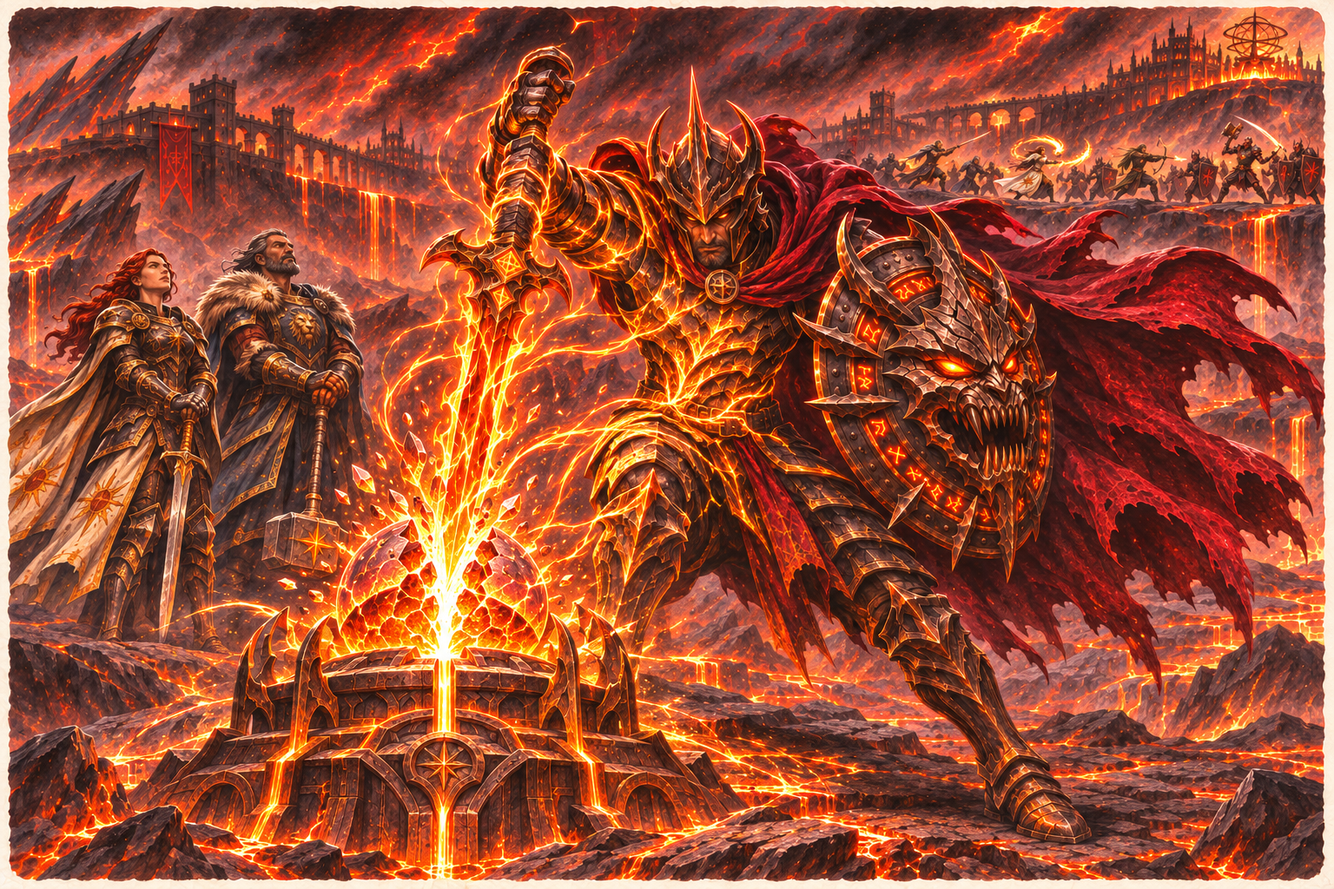
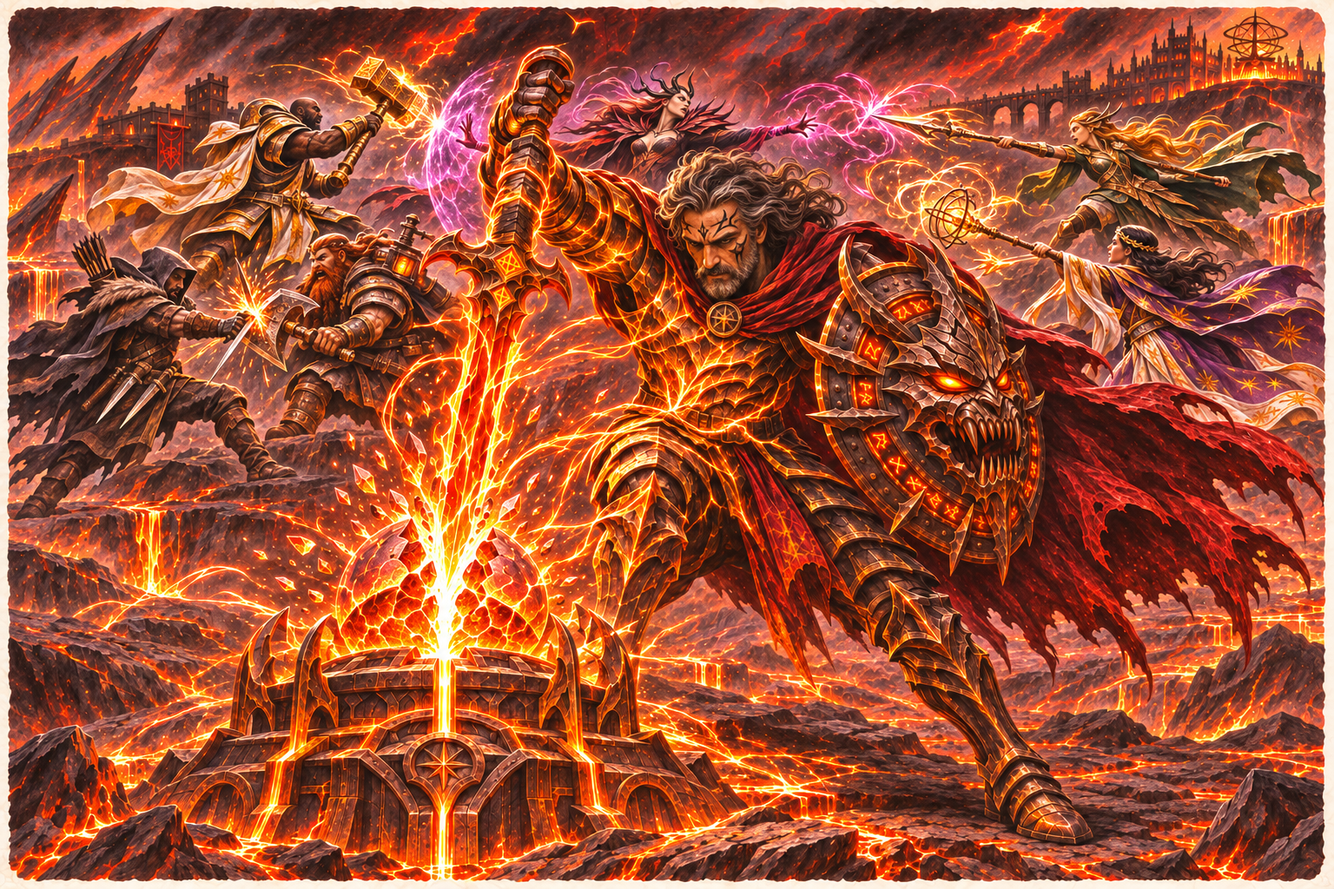
Move Ulrich pages under tables/wildemount and refine illustrations

diff --git a/tables/wildemount/background-oculto-ulrich-kessler/index.html b/tables/wildemount/background-oculto-ulrich-kessler/index.html
@@ -1,0 +1,34 @@
+<!doctype html><html lang="pt-BR"><head><meta charset="utf-8"><meta name="viewport" content="width=device-width,initial-scale=1"><meta name="robots" content="noindex,nofollow"><title>Ulrich Kessler — Background fechado</title><meta name="description" content="A história oculta de Ulrich Kessler. Material reservado ao mestre."><style>
+:root{color-scheme:dark;--paper:#171c22;--ink:#e8e0d2;--muted:#b1ac9f;--gold:#d2ad78;--line:#424347}
+*{box-sizing:border-box}html{scroll-behavior:smooth;scroll-padding-top:2rem}
+body{margin:0;background:var(--paper);color:var(--ink);font:1.16rem/1.85 Georgia,'Times New Roman',serif}
+body{isolation:isolate}
+body::before{content:"";position:fixed;inset:0;z-index:-1;pointer-events:none;background:url("/gamedev/docs/wildemounts-backgrounds-and-characters-conections/background-fechado/avernus-fundo.png") center/cover no-repeat}
+header,main{background:rgba(13,21,29,.84)}
+header{border-radius:18px 18px 0 0}
+main{border-radius:0 0 18px 18px}
+header{margin-top:clamp(1rem,4vw,4rem)}
+main{margin-bottom:clamp(1rem,4vw,4rem)}
+a{color:inherit;text-underline-offset:5px}a:hover{color:var(--gold)}a:focus-visible{outline:3px solid var(--gold);outline-offset:5px}
+.skip{position:absolute;top:-100px;left:1rem;background:var(--paper);padding:.5rem;z-index:2}.skip:focus{top:1rem}
+header{max-width:1120px;margin:clamp(1rem,4vw,4rem) auto 0;padding:4rem 5vw 2.5rem;display:grid;grid-template-columns:1fr 1fr;gap:5vw;align-items:center}
+.eyebrow{font:small-caps 1rem/1.4 Georgia,serif;letter-spacing:.16em;color:var(--gold)}
+h1{font-size:clamp(3rem,6.5vw,6rem);line-height:1.05;font-weight:400;letter-spacing:-.035em;margin:1.3rem 0}
+.subtitle{font-style:italic;color:var(--muted);margin:0}
+nav{margin-top:2rem;display:flex;flex-wrap:wrap;gap:.65rem 1.4rem;font-size:.9rem;line-height:1.7}
+.portrait{margin:0}.portrait img{display:block;width:100%;height:auto;border-radius:12px;box-shadow:0 16px 42px #00000055}
+figcaption{font-size:.88rem;line-height:1.55;color:var(--muted);padding:.75rem 0 0;font-style:italic}
+main{max-width:1120px;margin:auto;padding:0 5vw 3rem}
+section{padding:3rem 0 1rem;border-top:1px solid var(--line);margin-top:0}
+h2{max-width:720px;margin:0 auto 1.7rem;font-weight:400;font-size:clamp(1.8rem,3.3vw,2.7rem);line-height:1.2}
+p{max-width:720px;margin:0 auto 1.4rem}
+section figure{margin:2.6rem 0 3rem}section figure img{width:100%;height:auto;display:block;border-radius:12px;box-shadow:0 12px 36px #00000033}
+section figure figcaption{text-align:center}
+.closing{margin:1rem auto 2rem;max-width:720px}.closing p:last-child{border-left:2px solid var(--gold);padding-left:1.4rem}
+footer{max-width:720px;margin:0 auto;padding:2rem 0;border-top:1px solid var(--line);display:flex;gap:2rem;flex-wrap:wrap;font-size:.9rem}
+@media(max-width:650px){body{font-size:1.05rem;line-height:1.8}header{grid-template-columns:1fr;padding-top:2rem;gap:2rem}header .portrait{max-width:420px;margin:auto}nav{margin-top:1.4rem}section{padding-top:2rem}}
+@media(prefers-reduced-motion:reduce){html{scroll-behavior:auto}}
+@media(max-width:650px){header{margin-top:0}main{margin-bottom:0}body::before{background-position:62% center}}
+@media print{body::before{display:none}header,main{margin-top:0;margin-bottom:0;background:white;box-shadow:none}}
+@media print{header{padding:0;gap:1cm}body{font-size:10pt;line-height:1.55;background:white;color:#292620;--ink:#292620;--muted:#625c52;--gold:#755332;--line:#cfc1a9;color-scheme:light}nav,.skip,footer{display:none}main{padding:0}section{margin-top:1cm}figure{break-inside:avoid}h2{break-after:avoid}a{text-decoration:none}.portrait img{box-shadow:none}section figure img{max-height:15cm;object-fit:contain}}
+</style></head><body><a class="skip" href="#historia">Ir para a história</a><header id="inicio"><div><div class="eyebrow">Wildemount</div><h1>Ulrich<br>Kessler</h1><p class="subtitle">Background fechado · Reservado ao mestre</p><nav aria-label="Capítulos"><a href="#culto">Do exílio ao culto</a><a href="#fissura">A Batalha da Fissura</a><a href="#bastiao">Cinco anos sob custódia</a><a href="#retorno">Porto Damali</a></nav></div><figure class="portrait"><a href="/gamedev/docs/wildemounts-backgrounds-and-characters-conections/background-fechado/ulrich-campeao-de-asmodeus-avernus.png" aria-label="Ampliar imagem — Ulrich com armadura infernal, espada em chamas e escudo em Avernus."><img src="/gamedev/docs/wildemounts-backgrounds-and-characters-conections/background-fechado/ulrich-campeao-de-asmodeus-avernus.png" alt="Ulrich com armadura infernal, espada em chamas e escudo em Avernus." width="1024" height="1536" fetchpriority="high"></a><figcaption>Ulrich, campeão de Asmodeus, antes da queda da Âncora da Vontade.</figcaption></figure></header><main id="historia"><section id="culto"><h2>Do exílio ao culto</h2><p>Quando Ulrich fala de Zadash, conta até a parte que mais lhe custa. Diz que era devoto de Erathis, que serviu à Coroa e que mandou executar quatro homens que recebera ordem de soltar. Faz questão de dizer a verdade sempre que consegue. Quando chega aos anos de escolta, escolhe as palavras com mais cuidado. Há nomes que evita pronunciar. Ninguém na Costa suspeitaria de alguns dos lugares por onde passou. Para conhecer Ulrich por inteiro, é preciso seguir com ele a partir do ponto em que costuma abreviar a história.</p><p>Por alguns anos, Ulrich ganhou a vida como mercenário na Costa da Menagerie. Escoltava cargas de um porto a outro e aceitava o próximo serviço quando o dinheiro começava a acabar. Certos contratantes pagavam bem e sempre voltavam com outra proposta. Ulrich só descobriu mais tarde que serviam ao culto de Asmodeus. A essa altura, já lhe confiavam rotas inteiras e punham homens sob seu comando. Aos poucos, soube também o que esperavam construir. Acreditavam, como ele, que a paz só duraria quando uma autoridade pudesse impor a mesma ordem em toda parte. Ali encontrou o propósito que lhe faltava desde a fuga. Entregou-se à causa de livre vontade, e Asmodeus lhe deu poder para levá-la adiante.</p><figure class=""><a href="/gamedev/docs/wildemounts-backgrounds-and-characters-conections/background-fechado/ulrich-primeiro-contrato-do-culto.png" aria-label="Ampliar imagem — Ulrich recebe pagamento e instruções num armazém da Costa."><img src="/gamedev/docs/wildemounts-backgrounds-and-characters-conections/background-fechado/ulrich-primeiro-contrato-do-culto.png" alt="Ulrich recebe pagamento e instruções num armazém da Costa." width="1536" height="1024" loading="lazy"></a><figcaption>Os contratos se repetiram, e Ulrich passou a conhecer a causa que os financiava.</figcaption></figure><p>Passaram-se anos. Ulrich aprendeu a mover cargas e homens sem revelar o destino de nenhum dos dois, coordenou agentes na Costa e comandou missões fora do Plano Material. Para manter as rotas do culto, mandou incendiar casas de quem se recusava a ceder passagem, tomou reféns e fez desaparecer testemunhas. Quando Asmodeus escolheu os sete campeões que sustentariam o ritual para romper o Portão Divino, Ulrich estava entre eles. Antes de partir para Avernus, deixou instruções a um agente em Wildemount. Se a comunicação com os superiores fosse cortada, as peças seguiriam separadas por uma rota de reserva e só seriam reunidas no destino.</p></section><section id="fissura"><h2>A Batalha da Fissura</h2><p>Antes da batalha, um <em>Desejo</em> foi pronunciado longe de Ulrich. Ele jamais ouviu as palavras. Sabe apenas que, de vez em quando, uma pergunta lhe ocorria com uma clareza que o perturbava. Quando a paz chegasse, o que aconteceria com quem a recusasse? Durante anos, a resposta lhe parecera simples. Agora havia momentos em que ele chegava a pensar nas pessoas que teriam de viver sob aquela ordem. Ainda assim, seguiu para Avernus.</p><p>Quando os exércitos se encontraram junto à fissura, a batalha se abriu em duas frentes. Numa delas, a coalizão enfrentava Tharizdun. Na outra, as legiões de Asmodeus defendiam as estruturas que seus engenheiros haviam erguido ao redor do Portão. A Âncora da Subjugação impedia que a fissura se recompusesse. A da Convergência acumulava a energia necessária para alargá-la. A terceira, a Âncora da Vontade, dependia dos campeões reunidos ao redor de seu núcleo. Seus juramentos só sustentariam o ritual enquanto todos quisessem que o Portão caísse.</p><figure class=""><a href="/gamedev/docs/wildemounts-backgrounds-and-characters-conections/background-fechado/ulrich-sete-campeoes-da-ancora.png" aria-label="Ampliar imagem — Sete campeões sustentam o núcleo da Âncora da Vontade em Avernus."><img src="/gamedev/docs/wildemounts-backgrounds-and-characters-conections/background-fechado/ulrich-sete-campeoes-da-ancora.png" alt="Sete campeões sustentam o núcleo da Âncora da Vontade em Avernus." width="1536" height="1024" loading="lazy"></a><figcaption>Sete vontades reunidas para derrubar o Portão Divino.</figcaption></figure><p>Quando o fluxo passou pelas três âncoras, Ulrich sentiu por um instante o que os outros campeões esperavam da vitória. Um já pensava nas cidades que tomaria. Outro esperava a queda da barreira para acertar contas com um aliado. Então Ulrich teve a visão. Viu exércitos atravessarem o Portão, viu deuses disputando cidades e viu Asmodeus exigir obediência dos sobreviventes. Lembrou-se do pátio da guarnição em Zadash e da certeza com que dera a ordem de execução. Ao fim da visão e de volta ao círculo, compreendeu o que ainda podia escolher.</p><p>Ulrich recuou. Do outro lado do núcleo, outros dois campeões baixaram as armas. O fluxo perdeu força. Os que continuavam leais tentaram sustentar o ritual, e a guarda se dividiu quando os campeões voltaram as armas uns contra os outros. Ulrich atravessou o círculo e golpeou o núcleo enquanto ainda estava ligado a ele. A energia acumulada percorreu esse vínculo e o atingiu antes que pudesse se afastar. Com a terceira âncora destruída, a coalizão tomou as posições infernais e impediu que o ritual fosse retomado. Na outra frente, Tharizdun foi derrotado. O Portão resistiu, e a fissura ficou aberta.</p><figure class=""><a href="/gamedev/docs/wildemounts-backgrounds-and-characters-conections/background-fechado/ulrich-destruicao-do-nucleo.png" aria-label="Ampliar imagem — Ulrich golpeia o núcleo da âncora e é atravessado pela descarga."><img src="/gamedev/docs/wildemounts-backgrounds-and-characters-conections/background-fechado/ulrich-destruicao-do-nucleo.png" alt="Ulrich golpeia o núcleo da âncora e é atravessado pela descarga." width="1536" height="1024" loading="lazy"></a><figcaption>Ulrich voltou a espada contra a estrutura que havia jurado defender.</figcaption></figure><p>Encontraram Ulrich entre os destroços. Todo o poder que Asmodeus lhe dera havia desaparecido. Havia nomes que já não conseguia lembrar e rostos que via pela metade. Pela força da descarga, também sua vida deveria ter acabado ali. Ainda assim, quando os guardas se inclinaram sobre ele, sentiram sua respiração. Às vezes, Ulrich se pergunta se algum deus teve parte nisso. Em outras noites, a pergunta que lhe tira o sono é o que fazer com os anos que lhe restam.</p></section><section id="bastiao"><h2>Cinco anos sob custódia</h2><p>A marechal Seressa Vhal tinha enterrado gente que Ulrich ajudara a matar. Sabia também que ele havia rompido o núcleo quando ainda podia defender a âncora. A ruptura lhe deu motivo para considerar que o antigo campeão fosse capaz de mudar. O que ele sabia sobre os agentes de Asmodeus podia ajudar a proteger a fissura, e mantê-lo sob guarda permitiria conferir o que contasse e observar se ainda obedecia ao antigo patrono. Seressa assumiu diante da Vigília a responsabilidade de mantê-lo vivo sob custódia.</p><figure class=""><a href="/gamedev/docs/wildemounts-backgrounds-and-characters-conections/background-fechado/ulrich-seressa-apos-a-batalha.png" aria-label="Ampliar imagem — Seressa encara Ulrich ferido na enfermaria após a batalha."><img src="/gamedev/docs/wildemounts-backgrounds-and-characters-conections/background-fechado/ulrich-seressa-apos-a-batalha.png" alt="Seressa encara Ulrich ferido na enfermaria após a batalha." width="1536" height="1024" loading="lazy"></a><figcaption>Seressa assumiu a responsabilidade de mantê-lo vivo sob custódia.</figcaption></figure><p>Ulrich passou cinco anos no Bastião. Trabalhou na enfermaria, na cozinha e na horta, prestou depoimentos e conversou com Zereth sobre as escolhas que fizera antes e depois de conhecer Asmodeus. Em um dos depoimentos, contou que havia mandado levar um prisioneiro para uma vala e indicou onde ficava. A patrulha enviada ao local encontrou os corpos de dois combatentes desaparecidos. As famílias puderam enfim saber o que lhes acontecera, e Seressa viu que Ulrich estava disposto a contar até o que o comprometia. Aos poucos, Seressa pôde confiar em informações que Ulrich lhe entregava e que a Vigília conseguia verificar.</p><figure class=""><a href="/gamedev/docs/wildemounts-backgrounds-and-characters-conections/background-fechado/ulrich-depoimento-no-bastiao.png" aria-label="Ampliar imagem — Ulrich desenha um mapa para Seressa e Zereth no Bastião."><img src="/gamedev/docs/wildemounts-backgrounds-and-characters-conections/background-fechado/ulrich-depoimento-no-bastiao.png" alt="Ulrich desenha um mapa para Seressa e Zereth no Bastião." width="1536" height="1024" loading="lazy"></a><figcaption>Sob a guarda da Vigília, Ulrich contou o que ainda conseguia lembrar.</figcaption></figure><p>Quando voltou sob escolta ao local do ritual, Ulrich reconheceu entre os destroços o ponto onde estivera de guarda. Lembrou-se do orgulho com que defendera a âncora e sentiu nojo de si mesmo. Durante anos, Asmodeus alimentara suas certezas até que duvidar parecesse uma forma de deslealdade. Ulrich ficara tão cego que já mal conseguia imaginar a vida de quem sofria por suas ordens. Diante dos destroços, ainda se espantava por ter voltado a enxergar a tempo de agir. Teria sido obra de algum deus? Teria sido o destino? Ulrich guardava consigo a gratidão por aquele instante de clareza.</p><p>Ao longo daqueles anos, Ulrich voltou muitas vezes ao instante em que escolheu romper a âncora. Ao ver com clareza o que a queda do Portão custaria a quem teria de viver sob aquela ordem, conseguiu escolher o que fazer. Alguém havia tido de esperar para ver o que ele faria com a liberdade de escolher. Ele começou a se perguntar se teria a mesma paciência com alguém que já tivesse causado sofrimento. Talvez sua redenção pudesse começar ali, na liberdade de escolher o que faria dali em diante e na disposição de reparar o que ainda pudesse.</p></section><section id="retorno"><h2>O que o espera em Porto Damali</h2><p>Nemeia Sar reuniu registros de remessas despachadas depois da batalha. As caixas vinham declaradas como ferragens, mas as marcas correspondiam a peças que, reunidas, podiam conduzir energia para um ritual. Ulrich reconheceu a rota de reserva e o procedimento que ele próprio deixara em vigor. Ilyan Vey vinha observando pulsos na fissura semelhantes aos registrados durante os preparativos das âncoras. Seressa chamou Ulrich à sala de mapas. Precisava descobrir se alguém já estava montando ou testando um condutor. Como ele ainda sabia reconhecer as peças e o método de montagem, mesmo sem lembrar o nome do agente, ela lhe propôs que seguisse a carga em Porto Damali e prestasse contas à Vigília do que encontrasse.</p><p>Ulrich pediu um momento antes de responder. A rota que Seressa queria seguir ainda funcionava por causa de uma ordem sua. Aceitar a missão significava voltar à Costa e encarar as consequências dos crimes que cometera em nome de uma ideia equivocada de paz eterna. Viu ali uma oportunidade de proteger outras pessoas e dar a quem quisesse deixar o culto a chance de assumir o que fez. Sentiu uma convicção quase tão forte quanto a que o movera, anos antes, a fazer seu primeiro juramento. Disse a Seressa que iria. A disposição de tentar, mesmo diante de alguém de quem teria motivos para desconfiar, foi o começo do seu caminho de redenção.</p><p>Ao aceitar a missão, Ulrich sentiu um calor leve nas mãos. Em Porto Damali, tornou a senti-lo quando a dor de um carregador ferido cedeu sob seus dedos. Reconheceu algo sagrado naquele toque. Talvez um dia entendesse de onde vinha aquele poder ou por que sobrevivera em Avernus. Por ora, voltar a Wildemount lhe trazia um alívio que jamais imaginara sentir. Quando fugiu de Zadash, cada passo o levava para longe das consequências de uma ordem sua. Agora, a missão de Seressa o trazia de volta a Wildemount, a uma rota que ele mesmo ajudara a manter aberta. Ao pôr os pés no cais, sentiu o peso do que ainda teria de enfrentar. Mesmo assim, deu o primeiro passo.</p><figure class=""><a href="/gamedev/docs/wildemounts-backgrounds-and-characters-conections/background-fechado/ulrich-retorno-a-porto-damali.png" aria-label="Ampliar imagem — Ulrich desembarca em Porto Damali com a carta de Seressa."><img src="/gamedev/docs/wildemounts-backgrounds-and-characters-conections/background-fechado/ulrich-retorno-a-porto-damali.png" alt="Ulrich desembarca em Porto Damali com a carta de Seressa." width="1536" height="1024" loading="lazy"></a><figcaption>De volta a Wildemount, Ulrich deu o primeiro passo.</figcaption></figure></section><footer><a href="/gamedev/docs/wildemounts-backgrounds-and-characters-conections/background-fechado/ulrich-kessler-background-fechado.md">Texto em Markdown</a><a href="#inicio">Voltar ao início</a></footer></main></body></html>

diff --git a/tables/wildemount/ulrich-kessler/index.html b/tables/wildemount/ulrich-kessler/index.html
@@ -1,0 +1,56 @@
+<!doctype html>
+<html lang="pt-BR"><head><meta charset="utf-8"><meta name="viewport" content="width=device-width,initial-scale=1">
+<title>Ulrich Kessler — Background aberto</title><meta name="description" content="A história ilustrada de Ulrich Kessler, de Zadash aos cais de Porto Damali.">
+<style>
+:root{color-scheme:dark;--paper:#171c22;--ink:#e8e0d2;--muted:#b1ac9f;--gold:#d2ad78;--line:#424347}
+*{box-sizing:border-box}html{scroll-behavior:smooth;scroll-padding-top:2rem}
+body{margin:0;background:var(--paper);color:var(--ink);font:1.16rem/1.85 Georgia,'Times New Roman',serif}
+body{isolation:isolate}
+body::before{content:"";position:fixed;inset:0;z-index:-1;pointer-events:none;background:url("/gamedev/docs/wildemounts-backgrounds-and-characters-conections/background-aberto/costa-menagerie-fundo.png") center/cover no-repeat}
+header,main{background:rgba(13,21,29,.84)}
+header{border-radius:18px 18px 0 0}
+main{border-radius:0 0 18px 18px}
+header{margin-top:clamp(1rem,4vw,4rem)}
+main{margin-bottom:clamp(1rem,4vw,4rem)}
+a{color:inherit;text-underline-offset:5px}a:hover{color:var(--gold)}a:focus-visible{outline:3px solid var(--gold);outline-offset:5px}
+.skip{position:absolute;top:-100px;left:1rem;background:var(--paper);padding:.5rem;z-index:2}.skip:focus{top:1rem}
+header{max-width:1120px;margin:clamp(1rem,4vw,4rem) auto 0;padding:4rem 5vw 2.5rem;display:grid;grid-template-columns:1fr 1fr;gap:5vw;align-items:center}
+.eyebrow{font:small-caps 1rem/1.4 Georgia,serif;letter-spacing:.16em;color:var(--gold)}
+h1{font-size:clamp(3rem,6.5vw,6rem);line-height:1.05;font-weight:400;letter-spacing:-.035em;margin:1.3rem 0}
+.subtitle{font-style:italic;color:var(--muted);margin:0}
+nav{margin-top:2rem;display:flex;flex-wrap:wrap;gap:.65rem 1.4rem;font-size:.9rem;line-height:1.7}
+.portrait{margin:0}.portrait img{display:block;width:100%;height:auto;border-radius:12px;box-shadow:0 16px 42px #00000055}
+figcaption{font-size:.88rem;line-height:1.55;color:var(--muted);padding:.75rem 0 0;font-style:italic}
+main{max-width:1120px;margin:auto;padding:0 5vw 3rem}
+section{padding:3rem 0 1rem;border-top:1px solid var(--line);margin-top:0}
+h2{max-width:720px;margin:0 auto 1.7rem;font-weight:400;font-size:clamp(1.8rem,3.3vw,2.7rem);line-height:1.2}
+p{max-width:720px;margin:0 auto 1.4rem}
+section figure{margin:2.6rem 0 3rem}section figure img{width:100%;height:auto;display:block;border-radius:12px;box-shadow:0 12px 36px #00000033}
+section figure figcaption{text-align:center}
+.closing{margin:1rem auto 2rem;max-width:720px}.closing p:last-child{border-left:2px solid var(--gold);padding-left:1.4rem}
+footer{max-width:720px;margin:0 auto;padding:2rem 0;border-top:1px solid var(--line);display:flex;gap:2rem;flex-wrap:wrap;font-size:.9rem}
+@media(max-width:650px){body{font-size:1.05rem;line-height:1.8}header{grid-template-columns:1fr;padding-top:2rem;gap:2rem}header .portrait{max-width:420px;margin:auto}nav{margin-top:1.4rem}section{padding-top:2rem}}
+@media(prefers-reduced-motion:reduce){html{scroll-behavior:auto}}
+@media(max-width:650px){header{margin-top:0}main{margin-bottom:0}body::before{background-position:62% center}}
+@media print{body::before{display:none}header,main{margin-top:0;margin-bottom:0;background:white;box-shadow:none}}
+@media print{header{padding:0;gap:1cm}body{font-size:10pt;line-height:1.55;background:white;color:#292620;--ink:#292620;--muted:#625c52;--gold:#755332;--line:#cfc1a9;color-scheme:light}nav,.skip,footer{display:none}main{padding:0}section{margin-top:1cm}figure{break-inside:avoid}h2{break-after:avoid}a{text-decoration:none}.portrait img{box-shadow:none}section figure img{max-height:15cm;object-fit:contain}}
+</style></head><body>
+<a class="skip" href="#historia">Ir para a história</a>
+<header id="inicio"><div><div class="eyebrow">Wildemount</div><h1>Ulrich<br>Kessler</h1><p class="subtitle">Background aberto · Versão para todos na mesa</p>
+<nav aria-label="Capítulos"><a href="#zadash">Zadash</a><a href="#costa">Os anos na Costa</a><a href="#vigilia">A missão da Vigília</a><a href="#damali">Porto Damali</a></nav></div>
+<figure class="portrait"><a href="/gamedev/docs/wildemounts-backgrounds-and-characters-conections/background-aberto/ulrich-paladino-da-redencao-porto-damali.png" aria-label="Ampliar retrato de Ulrich"><img src="/gamedev/docs/wildemounts-backgrounds-and-characters-conections/background-aberto/ulrich-paladino-da-redencao-porto-damali.png" alt="Ulrich aos cinquenta e cinco anos, com cota de malha, escudo redondo e manto azul nos cais de Porto Damali." width="1024" height="1536" fetchpriority="high"></a><figcaption>Ulrich aos cinquenta e cinco anos, de volta a Porto Damali.</figcaption></figure></header>
+<main id="historia"><section id="zadash"><h2>O juramento e a fuga de Zadash</h2><p>Em Zadash, a mãe de Ulrich consertava arreios para carroceiros e patrulheiros. Nos dias em que as estradas eram seguras, o sino da oficina tocava desde cedo. Quando havia notícia de saques, a rua ficava quieta e sobrava pão nas bancas ao fim da tarde. Foi assim que Ulrich aprendeu a amar a ordem, antes mesmo de saber dizer o que ela era. Tornou-se devoto de Erathis, a Portadora da Lei, e, quando vestiu o uniforme da Crownsguard, jurou servir à Coroa imperial e obedecer às suas leis.</p>
+<figure class=""><a href="/gamedev/docs/wildemounts-backgrounds-and-characters-conections/background-aberto/ulrich-oficina-zadash.png" aria-label="Ampliar imagem — Ulrich menino observa a mãe consertar arreios na oficina em Zadash."><img src="/gamedev/docs/wildemounts-backgrounds-and-characters-conections/background-aberto/ulrich-oficina-zadash.png" alt="Ulrich menino observa a mãe consertar arreios na oficina em Zadash." loading="lazy" width="1536" height="1024"></a><figcaption>Na oficina da mãe, Ulrich aprendeu o valor de uma estrada segura.</figcaption></figure><p>Ganhou renome escoltando viajantes e passou a acreditar que a lei do Império devia chegar a todos os lugares onde suas patrulhas chegavam. Numa guarnição de fronteira, ajudou a capturar um capitão mercenário que vinha cobrando tributo de povoados isolados. Seus homens queimavam celeiros para dar exemplo a quem se recusasse a pagar. A guarda o deteve e o mandou a julgamento, mas parte do bando emboscou a escolta durante a transferência e o libertou. O capitão voltou para se vingar do povoado que havia ajudado a denunciá-lo. Quando Ulrich chegou, reconheceu entre os mortos um carroceiro que costumava levar os arreios à oficina da mãe. Depois daquele dia, passou a medir toda decisão pelo pior que poderia acontecer se esperasse. Aos poucos, a mera possibilidade de um novo ataque lhe pareceu razão suficiente para condenar um homem.</p>
+<p>Anos depois, já no comando de uma patrulha, Ulrich deteve quatro homens depois de um ataque a uma caravana. Tinham sido encontrados perto da estrada com sacos do mesmo fornecedor que abastecia a caravana. Os sacos circulavam por toda a região, e nenhum sobrevivente reconheceu os detidos. Seu superior mandou soltá-los. Ulrich passou a noite convencido de que, se saíssem dali, outros pagariam pela sua demora. Antes do amanhecer, mandou executá-los no pátio da guarnição. Quando a notícia chegou a Zadash, tiraram-lhe a patente e ordenaram que se apresentasse para julgamento. Ulrich fugiu antes da chegada da escolta. Seguiu para Porto Damali, além da jurisdição da Coroa, onde um homem acostumado a viajar armado podia ganhar a vida nos cais.</p>
+<figure class=""><a href="/gamedev/docs/wildemounts-backgrounds-and-characters-conections/background-aberto/ulrich-ordem-dos-prisioneiros-v3.png" aria-label="Ampliar imagem — Sob a lua cheia, Ulrich aponta para quatro prisioneiros cercados por guardas."><img src="/gamedev/docs/wildemounts-backgrounds-and-characters-conections/background-aberto/ulrich-ordem-dos-prisioneiros-v3.png" alt="Sob a lua cheia, Ulrich aponta para quatro prisioneiros cercados por guardas." loading="lazy" width="1536" height="1024"></a><figcaption>Antes do amanhecer, Ulrich deu a ordem que o faria fugir de Zadash.</figcaption></figure><p>Na estrada para o sul, Ulrich alternava o medo de ouvir uma patrulha atrás de si com a raiva dos superiores que o haviam destituído. Repetia mentalmente as razões das execuções, mas, quando parava para descansar, lembrava-se dos quatro homens esperando no pátio. Foi numa dessas paradas que encontrou um carroceiro ferido, caído junto a uma roda partida. Ajoelhou-se ao lado dele e pediu a bênção de Erathis, como fizera tantas vezes em serviço. O calor que conhecia não veio. Tentou outra vez, com a voz mais alta, e sentiu a raiva subir até a garganta. Como a deusa podia deixá-lo desamparado justamente quando alguém precisava dele? O carroceiro segurou seu pulso e pediu que apertasse o pano contra a ferida. Ulrich se calou e obedeceu. Ficou ali até o sangramento diminuir. Quando o homem conseguiu se levantar, ainda não havia bênção em suas mãos. Ulrich o ajudou a subir na carroça e caminhou ao lado do cavalo até encontrar abrigo.</p>
+<figure class=""><a href="/gamedev/docs/wildemounts-backgrounds-and-characters-conections/background-aberto/ulrich-carroceiro-na-estrada-v2.png" aria-label="Ampliar imagem — Na estrada, Ulrich sustenta o braço do carroceiro e encara a própria palma vazia."><img src="/gamedev/docs/wildemounts-backgrounds-and-characters-conections/background-aberto/ulrich-carroceiro-na-estrada-v2.png" alt="Na estrada, Ulrich sustenta o braço do carroceiro e encara a própria palma vazia." loading="lazy" width="1536" height="1024"></a><figcaption>Na noite da fuga, a bênção que conhecia deixou de responder.</figcaption></figure></section><section id="costa"><h2>Os anos na Costa</h2><p>Nos primeiros anos na Costa da Menagerie, Ulrich falava pouco de Zadash. Aceitava serviços curtos, mudava de hospedaria quando o trabalho o levava a outro porto e, antes de aceitar uma escolta, perguntava por onde passaria. As estradas que voltavam ao Império ficavam para outros homens. No começo, ainda chegavam aos cais notícias de que a Crownsguard perguntava por ele. Com o tempo, essas notícias rarearam. Ulrich passou a aceitar viagens mais longas e a voltar aos mesmos armazéns. Logo havia mercadores que o chamavam pelo nome quando precisavam de alguém que conhecesse as rotas da Costa.</p>
+<p>Quando uma remessa trocava de carroça ou de navio, Ulrich conferia o recibo antes de deixá-la seguir. Aprendeu a descobrir quem pagava pelo transporte mesmo quando o nome no papel era o de um intermediário.</p>
+<figure class=""><a href="/gamedev/docs/wildemounts-backgrounds-and-characters-conections/background-aberto/ulrich-escolta-na-costa-v2.png" aria-label="Ampliar imagem — Ulrich e três mercenários escoltam uma carroça numa estrada costeira."><img src="/gamedev/docs/wildemounts-backgrounds-and-characters-conections/background-aberto/ulrich-escolta-na-costa-v2.png" alt="Ulrich e três mercenários escoltam uma carroça numa estrada costeira." loading="lazy" width="1536" height="1024"></a><figcaption>Nos anos de exílio, as rotas da Costa se tornaram seu ofício.</figcaption></figure></section><section id="vigilia"><h2>A missão da Vigília</h2><p>Ulrich conheceu Nemeia Sar, diplomata da Vigília do Último Selo, por meio do trabalho dela com suprimentos e rotas de passagem. A Vigília guardava a fissura do Portão Divino em Avernus e suspeitava que agentes de Asmodeus estivessem reunindo peças para um novo ritual de ruptura. As peças podiam ter seguido em caixas separadas, despachadas em dias diferentes pelo antigo entreposto dos Martelhos. Quando precisou rastrear as remessas, Nemeia lembrou-se de Ulrich. Ele conhecia o entreposto dos tempos de escolta e sabia seguir uma carga de um porto ao outro. Ela o procurou e lhe mostrou os registros.</p>
+<p>Ulrich reparou que o mesmo escrivão havia assinado várias transferências. Depois que o gelo fechou o entreposto dos Martelhos, as caixas foram encaminhadas a outro depósito. Quem assinara os registros podia saber onde elas tinham chegado e quem as recebera. Nemeia levou a pista à marechal Seressa Vhal, que ofereceu a Ulrich o trabalho de encontrar o escrivão e lhe entregou uma carta de apresentação.</p>
+<p>Ulrich esteve a ponto de recusar. Depois de tantos anos de escolta, queria ganhar o bastante para viver bem e poder escolher os riscos que corria. Investigar um culto disposto a romper o Portão Divino podia lhe custar a vida. Enquanto procurava as palavras para se despedir de Seressa, sentiu um calor leve nas mãos. Lembrou-se da bênção que perdera na noite da fuga. Havia algo sagrado naquela sensação, embora ele não soubesse de onde vinha. Por um instante, pôde imaginar o bem que ainda era capaz de fazer se aceitasse.</p>
+<p>O calor lhe trouxe de volta a lembrança dos quatro homens no pátio. Nas noites de escolta, já havia se perguntado o que eles teriam dito se lhes tivesse dado tempo de falar. Diante de Seressa, desejou mais uma vez poder voltar àquela madrugada. Ainda podia agir em favor de quem corria perigo agora. Ulrich aceitou a missão.</p>
+</section><section id="damali"><h2>De volta aos cais de Porto Damali</h2><p>Em Porto Damali, Ulrich levou a carta de Seressa aos cais que ainda recebiam navios e começou a perguntar pelo escrivão. Foi ali que encontrou um carregador ferido, sentado sobre um caixote, com o braço apertado contra o peito. Ulrich se ajoelhou e pediu licença para tocá-lo. Ao pousar a mão sobre a ferida, lembrou-se do carroceiro na noite da fuga. Naquela noite, repetira a oração e esperara em vão. Desta vez, o calor que sentira diante de Seressa passou de sua palma para o braço do homem. Sob seus dedos, a ferida começou a se fechar. O carregador abriu a mão devagar, à espera de uma dor que já havia cedido.</p>
+<p>Ulrich ficou um instante de joelhos. Havia anos que suas mãos não curavam ninguém. Ainda se perguntava de onde vinha aquele poder, mas agora entendia por que o calor o fizera reconsiderar a proposta de Seressa. Na sala de mapas, sentira o bastante para aceitar a missão. No cais, com a mão ainda pousada no braço do carregador, reconheceu aquilo como um chamado.</p>
+<figure class=""><a href="/gamedev/docs/wildemounts-backgrounds-and-characters-conections/background-aberto/ulrich-cura-no-cais.png" aria-label="Ampliar imagem — Ulrich cura o braço de um carregador com a imposição das mãos ao pôr do sol."><img src="/gamedev/docs/wildemounts-backgrounds-and-characters-conections/background-aberto/ulrich-cura-no-cais.png" alt="Ulrich cura o braço de um carregador com a imposição das mãos ao pôr do sol." loading="lazy" width="1536" height="1024"></a><figcaption>Nos cais de Porto Damali, o calor voltou às suas mãos.</figcaption></figure><div class="closing"><p>Quem o encontra entre as carroças vê um guerreiro sagrado de cinquenta e cinco anos, com o cansaço de quem passou boa parte da vida na estrada. Durante anos, Ulrich acreditou que, se a lei fosse aplicada com rigor suficiente, chegaria o dia em que todos viveriam em paz. Em nome dessa paz, tomou decisões que ninguém poderia desfazer.</p>
+<p>Agora, em Porto Damali, seguia o rastro de algumas caixas. Queria descobrir quem as recebera antes que o culto pudesse usar o que havia dentro delas. Talvez a redenção começasse por uma tarefa assim. Quando fugiu de Zadash, escolhera deixar para trás as consequências do que fizera. Desta vez, podia ter recusado a missão de Seressa e voltado à vida de escolta. Escolheu ficar.</p>
+</div></section><footer><a href="/gamedev/docs/wildemounts-backgrounds-and-characters-conections/background-aberto/ulrich-kessler-background-aberto.md">Texto em Markdown</a><a href="#inicio">Voltar ao início</a></footer></main></body></html>

diff --git a/tables/wildemount/conexoes-ulrich-kessler/index.html b/tables/wildemount/conexoes-ulrich-kessler/index.html
@@ -1,0 +1,29 @@
+<!doctype html><html lang="pt-BR"><head><meta charset="utf-8"><meta name="viewport" content="width=device-width,initial-scale=1"><meta name="robots" content="noindex,nofollow"><title>Conexões de Ulrich — Wildemount</title><meta name="description" content="Conexões sugeridas entre Ulrich e os demais personagens, aprovadas pelos jogadores."><style>
+:root{color-scheme:dark;--paper:#171c22;--ink:#e8e0d2;--muted:#b1ac9f;--gold:#d2ad78;--line:#424347}
+*{box-sizing:border-box}html{scroll-behavior:smooth;scroll-padding-top:2rem}
+body{margin:0;background:var(--paper);color:var(--ink);font:1.16rem/1.85 Georgia,'Times New Roman',serif}
+a{color:inherit;text-underline-offset:5px}a:hover{color:var(--gold)}a:focus-visible{outline:3px solid var(--gold);outline-offset:5px}
+.skip{position:absolute;top:-100px;left:1rem;background:var(--paper);padding:.5rem;z-index:2}.skip:focus{top:1rem}
+header{max-width:1220px;margin:auto;padding:4rem 5vw 2.5rem;display:grid;grid-template-columns:1fr 1fr;gap:5vw;align-items:center}
+.eyebrow{font:small-caps 1rem/1.4 Georgia,serif;letter-spacing:.16em;color:var(--gold)}
+h1{font-size:clamp(3rem,6.5vw,6rem);line-height:1.05;font-weight:400;letter-spacing:-.035em;margin:1.3rem 0}
+.subtitle{font-style:italic;color:var(--muted);margin:0}
+nav{margin-top:2rem;display:flex;flex-wrap:wrap;gap:.65rem 1.4rem;font-size:.9rem;line-height:1.7}
+.portrait{margin:0}.portrait img{display:block;width:100%;height:auto;border-radius:2px;box-shadow:0 16px 42px #00000055}
+figcaption{font-size:.88rem;line-height:1.55;color:var(--muted);padding:.75rem 0 0;font-style:italic}
+main{max-width:1120px;margin:auto;padding:0 5vw 3rem}
+section{padding:3rem 0 1rem;border-top:1px solid var(--line);margin-top:2rem}
+h2{max-width:720px;margin:0 auto 1.7rem;font-weight:400;font-size:clamp(1.8rem,3.3vw,2.7rem);line-height:1.2}
+p{max-width:720px;margin:0 auto 1.4rem}
+section figure{margin:2.6rem 0 3rem}section figure img{width:100%;height:auto;display:block;box-shadow:0 12px 36px #00000033}
+section figure figcaption{text-align:center}
+.closing{margin:1rem auto 2rem;max-width:720px}.closing p:last-child{border-left:2px solid var(--gold);padding-left:1.4rem}
+footer{max-width:720px;margin:0 auto;padding:2rem 0;border-top:1px solid var(--line);display:flex;gap:2rem;flex-wrap:wrap;font-size:.9rem}
+@media(max-width:650px){body{font-size:1.05rem;line-height:1.8}header{grid-template-columns:1fr;padding-top:2rem;gap:2rem}header .portrait{max-width:420px;margin:auto}nav{margin-top:1.4rem}section{padding-top:2rem}}
+@media(prefers-reduced-motion:reduce){html{scroll-behavior:auto}}
+@media print{header{padding:0;gap:1cm}body{font-size:10pt;line-height:1.55;background:white;color:#292620;--ink:#292620;--muted:#625c52;--gold:#755332;--line:#cfc1a9;color-scheme:light}nav,.skip,footer{display:none}main{padding:0}section{margin-top:1cm}figure{break-inside:avoid}h2{break-after:avoid}a{text-decoration:none}.portrait img{box-shadow:none}section figure img{max-height:15cm;object-fit:contain}}
+
+header{display:block;max-width:920px;padding-bottom:1.5rem}h1{font-size:clamp(2.5rem,6vw,4.7rem)}header p{margin-left:0}
+main{max-width:920px}.connection-meta{max-width:720px;margin:0 auto 1.5rem;color:var(--muted);font-size:.9rem}
+.subtitle{max-width:60ch}h2 small{display:block;font-size:.54em;color:var(--muted);margin-top:.5rem;line-height:1.5}
+</style></head><body><a class="skip" href="#conexoes">Ir para as conexões</a><header id="inicio"><div class="eyebrow">Wildemount</div><h1>Conexões de Ulrich</h1><p class="subtitle">Conexões sugeridas e aprovadas pelos jogadores.</p><nav aria-label="Personagens"><a href="#dante">Dante</a><a href="#eironn">Eironn</a><a href="#wappa">Wappa</a><a href="#nikolai">Nikolai</a><a href="#zoran">Zoran</a></nav></header><main id="conexoes"><section id="dante"><h2>Ulrich e Dante<small>O entreposto dos Martelhos</small></h2><p>Nos primeiros anos do exílio, Ulrich escoltou uma carga de tecidos para Gerald Martelhos. No entreposto, enquanto esperava o pagamento, viu Gerald guardar um caderno de couro escuro numa caixa de amostras. Gerald pediu que o encarregado registrasse a caixa no livro do armazém e enviasse o recibo à Última Margem, a oficina de Oran Dural. Se aquele caderno era o diário de Gerald, o registro pode indicar quem retirou a caixa.</p><p>Anos depois, a serviço de Asmodeus, Ulrich trabalhou com um comerciante de fretes. O homem dividia as remessas entre transportadores e marcava as caixas para reuni-las no destino. Ulrich o conhecia pelo sobrenome da mãe. Nunca soube que Gerald o havia ajudado a começar no comércio, nem que ele era filho de Harland Martelhos. Era o dono do cordão com o fio laranja.</p><p>De volta a Porto Damali, Ulrich reconheceu essas marcas nos registros da Vigília. O nome do comerciante lhe escapava, mas uma assinatura dava a Ulrich por onde começar. Era a do escrivão que registrara a transferência das caixas depois que o gelo fechou o entreposto. Ulrich quer encontrar o escrivão para saber quem recebeu as remessas e se o antigo conhecido ainda trabalha na rota. O comerciante que ele tenta localizar é um dos irmãos desaparecidos de Dante.</p><div class="connection-meta"><a href="/gamedev/docs/wildemounts-backgrounds-and-characters-conections/conexoes/ulrich-e-dante-o-entreposto-dos-martelhos.md">Ler em Markdown</a></div></section><section id="eironn"><h2>Ulrich e Eironn<small>O mapa do armazém</small></h2><p>O gelo havia fechado o antigo entreposto dos Martelhos. As caixas que Ulrich procurava tinham sido transferidas dali para outro armazém, nos cais preservados. Entre os papéis que Nemeia reuniu para a Vigília, havia um mapa feito à mão que mostrava como chegar a esse segundo armazém. Alguém anotara os números das caixas ao lado da porta dos fundos.</p><p>Em Porto Damali, Ulrich seguiu o mapa até o armazém dos cais e encontrou o portão fechado. Um carregador que recolhia as cordas da última descarga disse que vira o escrivão responsável pela transferência entrar pela porta dos fundos. Era com esse escrivão que Ulrich precisava falar para descobrir quem recebera as caixas.</p><p>No canto do mapa, quase apagado pela dobra, havia um selo. Era o da Última Margem, a oficina onde Oran Dural trabalhava e onde Eironn aprendera o ofício. Eironn procurava Oran desde o desaparecimento do mestre. O mapa dava a ele uma pista que podia seguir. Quem desenhara o caminho até o armazém talvez soubesse de Oran. Até então, Ulrich e Eironn jamais haviam se encontrado.</p><div class="connection-meta"><a href="/gamedev/docs/wildemounts-backgrounds-and-characters-conections/conexoes/ulrich-e-eironn-o-mapa-do-armazem.md">Ler em Markdown</a></div></section><section id="wappa"><h2>Ulrich e Wappa<small>A maré nos cais</small></h2><p>Nos cais de Porto Damali, Ulrich perguntava pelo escrivão que assinara a transferência das caixas do entreposto dos Martelhos. O mapa que trouxera indicava o novo armazém, mas ele encontrou o portão fechado. Ao guardar o papel, reparou num pequeno desembarcadouro atrás do prédio. Da rua, só conseguia ver as pontas dos postes de amarração. Com o gelo fechando parte da orla, era difícil saber por onde um barco ainda podia chegar ali.</p><p>Wappa conhecia aquele trecho. Aprendera a ler a maré entre os barcos da Ribeira do Sal, nos anos em que crescera junto ao templo do Senhor da Tempestade. Desde que voltara, vinha prestando atenção às poucas passagens que a água ainda encontrava entre os cais e o gelo. Numa dessas manhãs, vira uma barcaça sair do desembarcadouro carregada de caixas e descer na direção da Ribeira. Reconheceu a embarcação. Antes do gelo, ela costumava trazer mantimentos para o bairro.</p><p>Wappa tinha voltado por causa do mar e encontrara cobradores à porta dos vizinhos. Era com eles que pretendia lidar primeiro. Ulrich, por sua vez, precisava saber se as caixas tinham ficado no armazém ou seguido adiante. Se chegasse à Ribeira fazendo perguntas sobre a barcaça, encontraria gente que conhecia Wappa desde menino. O tortle poderia indicar onde a embarcação costumava atracar. Só ao ver as marcas nas caixas Ulrich saberia se aquela era a carga que a Vigília procurava.</p><div class="connection-meta"><a href="/gamedev/docs/wildemounts-backgrounds-and-characters-conections/conexoes/ulrich-e-wappa-a-mare-nos-cais.md">Ler em Markdown</a></div></section><section id="nikolai"><h2>Ulrich e Nikolai<small>O caderno do farol</small></h2><p>Entre os registros que recebeu da Vigília, Ulrich encontrou uma anotação que pouco tinha a ver com fretes. Na noite de uma das transferências, um vigia do farol registrara a passagem de uma barcaça sem luzes. Da torre, ele podia ver o desembarcadouro atrás do armazém. A cópia terminava antes de dizer em que direção a embarcação seguira. No cais, Ulrich soube que o caderno original fora levado para a sala dos pilotos quando o gelo cortou o acesso ao farol.</p><p>Por aqueles dias, Nikolai Copernicus chegava a Porto Damali com um mapa que durante anos parecera desenhar um céu impossível. Algumas de suas figuras começavam a se parecer com o que via acima do mar. Zoran havia traduzido parte das inscrições, mas Nikolai precisava de observações feitas por outra pessoa para saber se podia confiar nas suas. Em suas viagens pela Costa, aprendera que os vigias anotavam a posição das estrelas para marcar a hora quando o relógio da torre falhava. Foi por isso que perguntou pelos cadernos do farol.</p><p>Na página que faltava à cópia de Ulrich, o vigia desenhara três estrelas acima da linha dos telhados. Abaixo delas, escrevera por qual canal a barcaça desaparecera. Era o mesmo registro que os dois procuravam. Ulrich queria descobrir se a embarcação tinha levado as caixas que a Vigília rastreava. Nikolai queria comparar o desenho, feito naquela noite e daquele ponto da costa, com o mapa que trouxera. Até então, nenhum deles tinha ouvido o nome do outro.</p><div class="connection-meta"><a href="/gamedev/docs/wildemounts-backgrounds-and-characters-conections/conexoes/ulrich-e-nikolai-o-caderno-do-farol.md">Ler em Markdown</a></div></section><section id="zoran"><h2>Ulrich e Zoran<small>O livro das estradas</small></h2><p>Quando ainda servia na Crownsguard, Ulrich conheceu um copista de passagem por Zadash. Chamava-se Zoran SwiftHeart. A guarnição o contratara para copiar um livro antigo de estradas e travessias, com anotações deixadas por patrulhas e mercadores. Zoran aceitou receber menos em troca de permissão para fazer uma cópia para si. Ulrich, que usava o livro para planejar escoltas, mostrou-lhe uma página que os homens da guarnição costumavam dobrar. Na margem, alguém havia anotado caminhos de serviço por onde ainda passavam carroças quando a estrada principal fechava.</p><p>Anos depois, nos cais de Porto Damali, Ulrich encontrou num registro de transferência o nome de uma antiga passagem que julgava ter visto naquele livro. As caixas haviam saído do entreposto dos Martelhos depois do gelo, e a anotação podia indicar por onde seguiram a partir do novo armazém. Ulrich se lembrou do copista pedindo licença para levar uma segunda via. Se Zoran ainda tivesse a cópia, talvez conseguisse pôr aquele nome de volta no mapa.</p><p>Zoran vinha a Porto Damali atrás de fornecedores e documentos raros. Entre os papéis que esperava consultar na cidade, podiam estar registros mais recentes da mesma passagem. Se voltassem a se encontrar, Ulrich teria um nome para lhe mostrar, e Zoran saberia em que livro começar a procurar. Em Zadash, haviam passado uma tarde sobre a mesma página. Nenhum dos dois imaginava que voltaria a precisar dela tão longe dali.</p><div class="connection-meta"><a href="/gamedev/docs/wildemounts-backgrounds-and-characters-conections/conexoes/ulrich-e-zoran-o-livro-das-estradas.md">Ler em Markdown</a></div></section><footer><a href="#inicio">Voltar ao início</a></footer></main></body></html>
